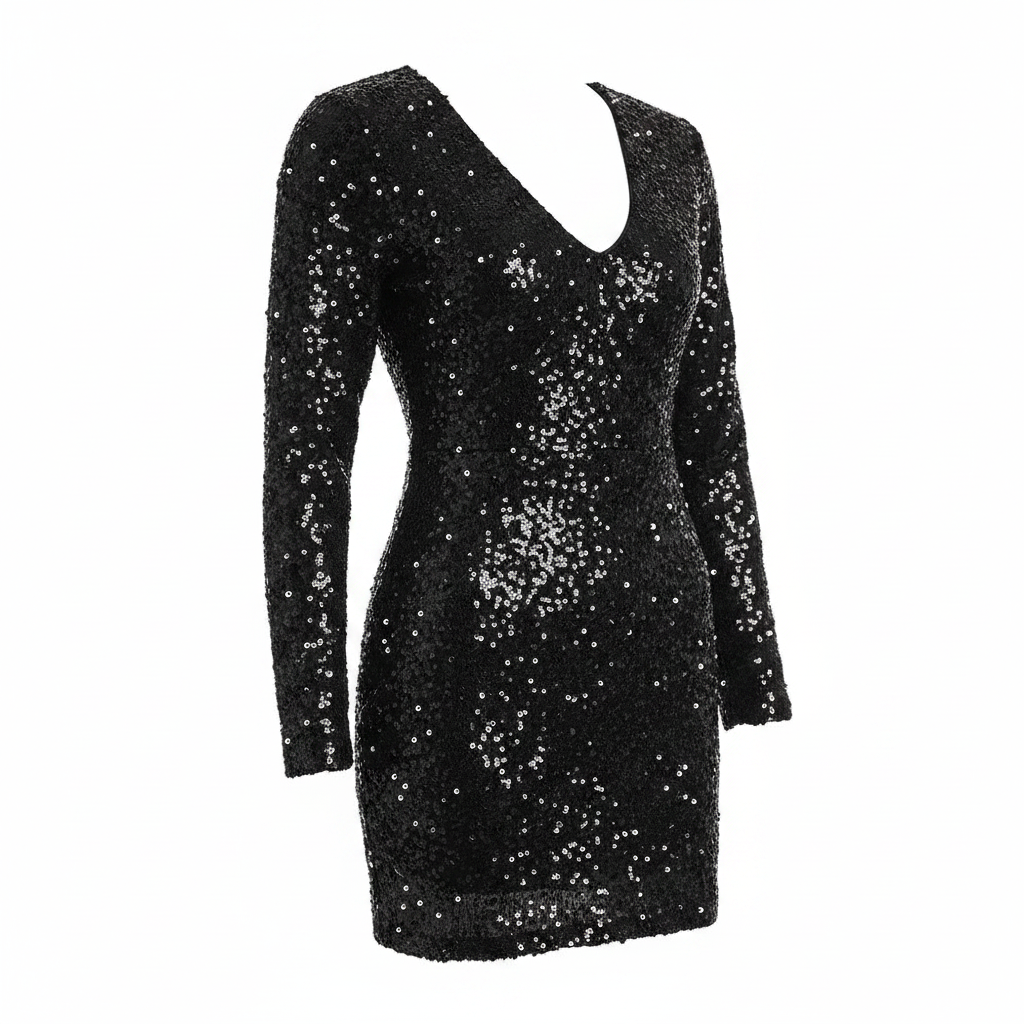
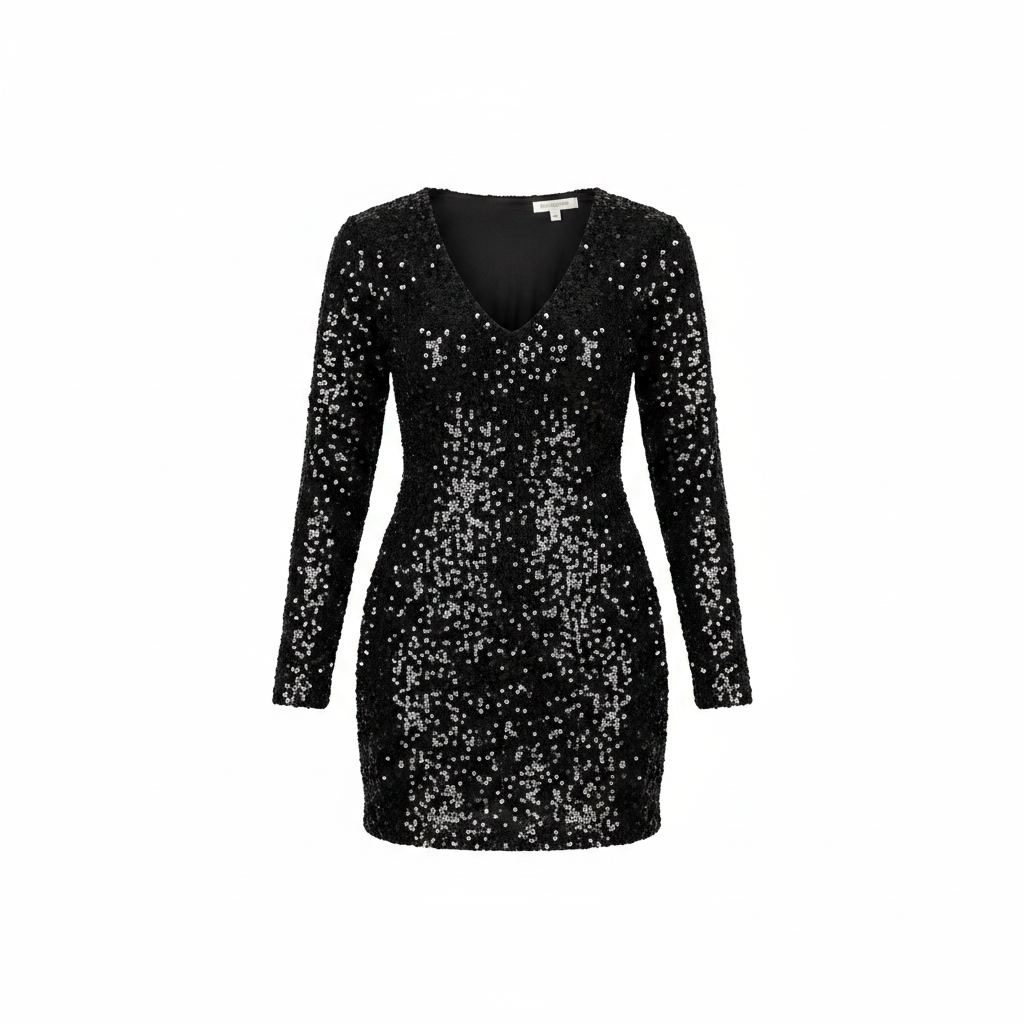
docs: tune nano banana prompt for consistency (flat, front-facing, no mannequin)
Per mentor's votes: regenerated all 4 examples with a tuned prompt — flat &
straight front-facing, no mannequin/hanger/body, pure white background, and no
invented labels/logos. Output is now consistent across garment types (kurti,
mirror-work kurti, sequin dress, striped shirt). Doc images updated in place.

Changed region(s): [[0.25, 0.0625, 0.7812, 0.9375], [0.5625, 0.0625, 0.5938, 0.0938]]

diff --git a/docs/background-removal.md b/docs/background-removal.md
@@ -19,8 +19,9 @@ Neither is production-quality for on-body photos.
 ## ⭐ Update (29 Jul) — tested a generative option (nano banana), and it's the standout
 
 Per the suggestion to try a generative method: instead of *masking* pixels, use **Gemini's image
-model (`gemini-2.5-flash-image`, "nano banana")** to **regenerate** the garment as a clean
-ghost-mannequin product photo. Tested on real on-body photos — input (worn) → nano banana output:
+model (`gemini-2.5-flash-image`, "nano banana")** to **regenerate** the garment as a clean product
+photo. Prompt tuned for consistency: **flat, front-facing, no mannequin, pure-white background, no
+invented labels.** Tested on real on-body photos — input (worn) → nano banana output:
 
 | Input (as worn) | nano banana output |
 |---|---|
